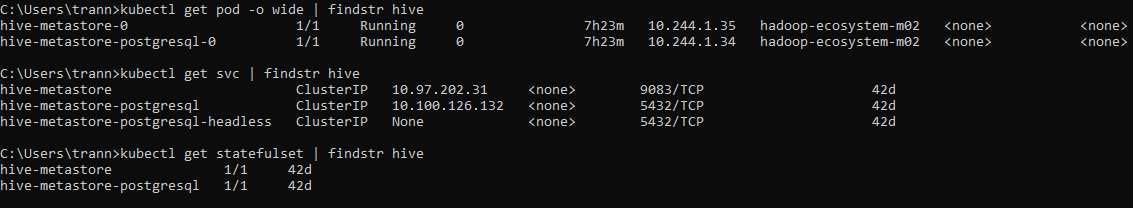
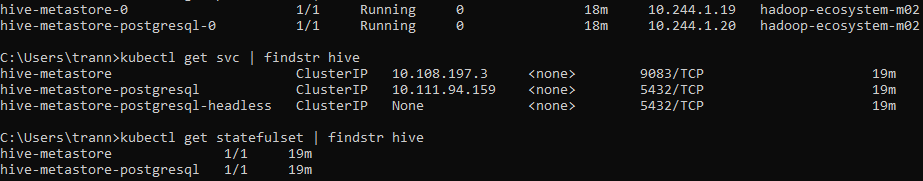
Add demo

diff --git a/code/airflow/data_flow.py b/code/airflow/data_flow.py
@@ -25,7 +25,7 @@ year = 2030
 month = 1
 
 spark = SparkSession.builder.appName("Get time from HDFS").getOrCreate()
-df = spark.read.option("header", "true").csv("hdfs://namenode:9000/time")
+df = spark.read.option("header", "true").csv("hdfs://hadoop-hadoop-hdfs-nn:9000/time")
 time = df.first()
 year = int(time["year"])
 month = int(time["month"])
@@ -46,7 +46,7 @@ def increase_time_def():
         columns = ["year", "month"]
         data = [(year, month)]
         df = spark.createDataFrame(data, columns)
-        df.write.option("header", "true").mode("overwrite").csv("hdfs://namenode:9000/time")
+        df.write.option("header", "true").mode("overwrite").csv("hdfs://hadoop-hadoop-hdfs-nn:9000/time")
 
 def delivery_callback(err, msg):
     if err:
@@ -58,11 +58,11 @@ def extract_data_def():
     global year
     global month
 
-    config = {'bootstrap.servers': 'broker01:9093', 'acks': 'all'}
+    config = {'bootstrap.servers': 'kafka:9092', 'acks': 'all'}
     producer = Producer(config)
 
     topic = f'flight_data_{year}'
-    url = 'http://data-source:5000/api/get_data'
+    url = 'http://service:5000/api/get_data'
     params = {'year': year, 'month': month, 'offset': 0, 'limit': 100}
 
     while True:

diff --git a/code/spark/load_data_airflow.py b/code/spark/load_data_airflow.py
@@ -19,7 +19,7 @@ if __name__ == "__main__":
     else:
         df = spark.readStream \
             .format("kafka") \
-            .option("kafka.bootstrap.servers", "broker01:9093") \
+            .option("kafka.bootstrap.servers", "kafka:9092") \
             .option("subscribe", f"flight_data_{year}") \
             .load()
         
@@ -152,8 +152,8 @@ if __name__ == "__main__":
         writing_df = json_expanded_df.writeStream \
             .format("parquet") \
             .option("format", "append") \
-            .option("path", "hdfs://namenode:9000/staging/" + str(year) + "/" + str(month)) \
-            .option("checkpointLocation", "hdfs://namenode:9000/tmp/" + str(year) + "/" + str(month)) \
+            .option("path", "hdfs://hadoop-hadoop-hdfs-nn:9000/staging/" + str(year) + "/" + str(month)) \
+            .option("checkpointLocation", "hdfs://hadoop-hadoop-hdfs-nn:9000/tmp/" + str(year) + "/" + str(month)) \
             .outputMode("append") \
             .start()
         

diff --git a/code/spark/transform_data_airflow.py b/code/spark/transform_data_airflow.py
@@ -3,7 +3,7 @@ from pyspark.sql.functions import *
 from sys import argv
 
 if __name__ == "__main__":
-    datawarehouse_location = 'hdfs://namenode:9000/processed_data'
+    datawarehouse_location = 'hdfs://hadoop-hadoop-hdfs-nn:9000/processed_data'
     spark = SparkSession.builder.appName("Transform data").config("spark.sql.warehouse.dir", datawarehouse_location).enableHiveSupport().getOrCreate()
 
     year = int(argv[1])
@@ -12,7 +12,7 @@ if __name__ == "__main__":
     if (year == 2022 and month >= 8) or year > 2022:
         pass
     else:
-        df = spark.read.parquet("hdfs://namenode:9000/staging/" + str(year) + "/" + str(month))
+        df = spark.read.parquet("hdfs://hadoop-hadoop-hdfs-nn:9000/staging/" + str(year) + "/" + str(month))
 
         # Select columns not too much null
         df_select = df.select("Year", "Quarter", "Month", "DayofMonth", "DayOfWeek", "FlightDate",

diff --git a/code/spark/transform_data.py b/code/spark/transform_data.py
@@ -5,7 +5,7 @@ def solution():
     global year
     global month
 
-    df = spark.read.parquet("hdfs://namenode:9000/staging/" + str(year) + "/" + str(month))
+    df = spark.read.parquet("hdfs://hadoop-hadoop-hdfs-nn:9000/staging/" + str(year) + "/" + str(month))
 
     # Select columns not too much null
     df_select = df.select("Year", "Quarter", "Month", "DayofMonth", "DayOfWeek", "FlightDate",
@@ -85,7 +85,7 @@ def solution():
         month += 1
 
 if __name__ == "__main__":
-    datawarehouse_location = 'hdfs://namenode:9000/processed_data'
+    datawarehouse_location = 'hdfs://hadoop-hadoop-hdfs-nn:9000/processed_data'
     spark = SparkSession.builder.appName("Transform data").config("spark.sql.warehouse.dir", datawarehouse_location).enableHiveSupport().getOrCreate()
     spark.sql("create schema if not exists processed_data")
     spark.sql("use processed_data")

diff --git a/code/airflow/transform.py b/code/airflow/transform.py
@@ -21,7 +21,7 @@ year = 2030
 month = 1
 
 spark = SparkSession.builder.appName("Get time from HDFS").getOrCreate()
-df = spark.read.option("header", "true").csv("hdfs://namenode:9000/time")
+df = spark.read.option("header", "true").csv("hdfs://hadoop-hadoop-hdfs-nn:9000/time")
 time = df.first()
 year = int(time["year"])
 month = int(time["month"])
@@ -42,7 +42,7 @@ def increase_time_def():
         columns = ["year", "month"]
         data = [(year, month)]
         df = spark.createDataFrame(data, columns)
-        df.repartition(1).write.option("header", "true").mode("overwrite").csv("hdfs://namenode:9000/time")
+        df.repartition(1).write.option("header", "true").mode("overwrite").csv("hdfs://hadoop-hadoop-hdfs-nn:9000/time")
 
 transform_data = BashOperator(
     task_id="transform_data",

diff --git a/code/airflow/query.py b/code/airflow/query.py
@@ -22,7 +22,7 @@ year = 2030
 month = 1
 
 spark = SparkSession.builder.appName("Get time from HDFS").getOrCreate()
-df = spark.read.option("header", "true").csv("hdfs://namenode:9000/time")
+df = spark.read.option("header", "true").csv("hdfs://hadoop-hadoop-hdfs-nn:9000/time")
 time = df.first()
 year = int(time["year"])
 month = int(time["month"])
@@ -43,7 +43,7 @@ def increase_time_def():
         columns = ["year", "month"]
         data = [(year, month)]
         df = spark.createDataFrame(data, columns)
-        df.repartition(1).write.option("header", "true").mode("overwrite").csv("hdfs://namenode:9000/time")
+        df.repartition(1).write.option("header", "true").mode("overwrite").csv("hdfs://hadoop-hadoop-hdfs-nn:9000/time")
 
 def query_data_def():
     global year

diff --git a/code/spark/load_data.py b/code/spark/load_data.py
@@ -142,8 +142,8 @@ def solution():
     writing_df = json_expanded_df.writeStream \
         .format("parquet") \
         .option("format", "append") \
-        .option("path", "hdfs://namenode:9000/staging/" + str(year) + "/" + str(month)) \
-        .option("checkpointLocation", "hdfs://namenode:9000/tmp/" + str(year) + "/" + str(month)) \
+        .option("path", "hdfs://hadoop-hadoop-hdfs-nn:9000/staging/" + str(year) + "/" + str(month)) \
+        .option("checkpointLocation", "hdfs://hadoop-hadoop-hdfs-nn:9000/tmp/" + str(year) + "/" + str(month)) \
         .outputMode("append") \
         .start()
     

diff --git a/code/spark/push_file.py b/code/spark/push_file.py
@@ -5,7 +5,7 @@ def solution():
     global month
 
     df = spark.read.option("header", "true").csv("/opt/airflow/source/flight_data/raw/Flights_" + str(year) + "_" + str(month) + ".csv")
-    df.write.mode("overwrite").parquet("hdfs://namenode:9000/staging/" + str(year) + "/" + str(month))
+    df.write.mode("overwrite").parquet("hdfs://hadoop-hadoop-hdfs-nn:9000/staging/" + str(year) + "/" + str(month))
 
     if month == 12:
         year += 1
